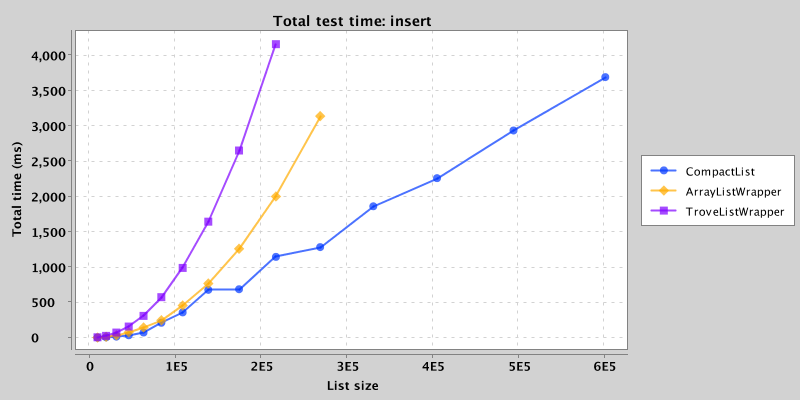
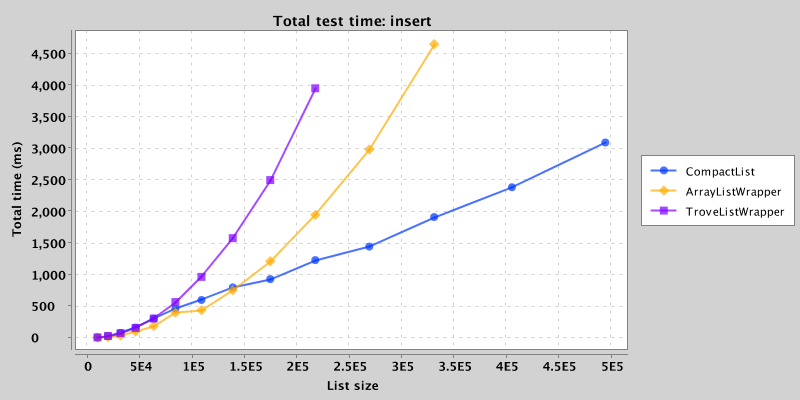
Add amortised compaction back in

diff --git a/src/main/java/net/kothar/compactlist/internal/Node.java b/src/main/java/net/kothar/compactlist/internal/Node.java
@@ -29,19 +29,73 @@ public class Node implements Iterable<Long>, LongList, Serializable {
 	private static final int	TARGET_LEAF_SIZE	= (1 << 16) - 1;
 	private static final int	MAX_LEAF_SIZE		= 1 << 20;
 
-	protected int		size;
-	protected Store		elements;
-	protected Node		left, right;
-	protected int		height;
-	protected boolean	dirty	= true;
+	protected int	size;
+	protected Store	elements;
+	protected Node	left, right;
+	protected int	height;
+
+	boolean		dirty;
+	DirtyList	dirtyList;
+	Node		prevDirty;
+	Node		nextDirty;
 
 	public Node() {
-		this(new ShortArrayStore(0));
+		this(new DirtyList());
 	}
 
-	public Node(Store elements) {
+	protected Node(DirtyList dirtyList) {
+		this(dirtyList, new LongArrayStore());
+	}
+
+	protected Node(DirtyList dirtyList, Store elements) {
+		this(dirtyList, elements, true);
+	}
+
+	public Node(DirtyList dirtyList, Store elements, boolean dirty) {
+		this.dirtyList = dirtyList;
 		this.elements = elements;
 		this.size = elements.size();
+		if (dirty) {
+			markDirty();
+		}
+	}
+
+	private void markDirty() {
+		// Remove if already in list
+		removeDirty();
+
+		// Add to tail of list
+		prevDirty = dirtyList.tail;
+		dirtyList.tail = this;
+		if (dirtyList.head == null) {
+			dirtyList.head = this;
+		}
+		dirty = true;
+	}
+
+	private void removeDirty() {
+		if (!dirty) {
+			return;
+		}
+		if (prevDirty != null) {
+			prevDirty.nextDirty = nextDirty;
+			prevDirty = null;
+		} else {
+			dirtyList.head = nextDirty;
+		}
+		if (nextDirty != null) {
+			nextDirty.prevDirty = prevDirty;
+			nextDirty = null;
+		} else {
+			dirtyList.tail = prevDirty;
+		}
+		dirty = false;
+	}
+
+	public void maintain() {
+		if (dirtyList.head != null) {
+			dirtyList.head.compact();
+		}
 	}
 
 	private boolean isLeaf() {
@@ -78,8 +132,8 @@ public class Node implements Iterable<Long>, LongList, Serializable {
 		// Replace with non-compact representation if out of range
 		// TODO evaluate storage range
 		if (isLeaf() && !elements.inRange(element)) {
-			elements = new LongArrayStore(elements, 0, size);
-			dirty = true;
+			elements = new LongArrayStore(elements);
+			markDirty();
 		}
 
 		// Leaf
@@ -124,7 +178,7 @@ public class Node implements Iterable<Long>, LongList, Serializable {
 				newElements.set(index, element);
 				newElements.copy(elements, index + 1, index, size - index);
 				elements = newElements;
-				dirty = true;
+				markDirty();
 			} else {
 				elements.addLong(index, element);
 			}
@@ -171,7 +225,6 @@ public class Node implements Iterable<Long>, LongList, Serializable {
 			release();
 			elements = new ConstantStore(0, 0);
 			height = 0;
-			dirty = true;
 		} else {
 			balance();
 		}
@@ -186,6 +239,7 @@ public class Node implements Iterable<Long>, LongList, Serializable {
 			right = null;
 		} else {
 			elements.release();
+			removeDirty();
 		}
 	}
 
@@ -196,19 +250,20 @@ public class Node implements Iterable<Long>, LongList, Serializable {
 
 		if (isLeaf()) {
 			if (pivot == size) {
-				left = new Node(elements);
-				right = new Node(new ShortArrayStore(elements.getLong(pivot - 1)));
+				left = new Node(dirtyList, elements, dirty);
+				right = new Node(dirtyList, new LongArrayStore());
 			} else if (pivot == 0) {
-				left = new Node(new ShortArrayStore(elements.getLong(0)));
-				right = new Node(elements);
+				left = new Node(dirtyList, new LongArrayStore());
+				right = new Node(dirtyList, elements, dirty);
 			} else {
 				Store[] splitElements = elements.split(pivot);
-				left = new Node(splitElements[0]);
-				right = new Node(splitElements[1]);
+				left = new Node(dirtyList, splitElements[0], dirty);
+				right = new Node(dirtyList, splitElements[1], dirty);
 			}
 
 			elements = null;
 			height = 1;
+			removeDirty();
 
 			assert left.size == pivot;
 			assert right.size == size - pivot;
@@ -222,7 +277,6 @@ public class Node implements Iterable<Long>, LongList, Serializable {
 	}
 
 	protected void merge() {
-
 		if (trace)
 			log.trace("merge: {}", this);
 
@@ -236,7 +290,7 @@ public class Node implements Iterable<Long>, LongList, Serializable {
 		left = null;
 		right = null;
 		height = 0;
-		dirty = true;
+		markDirty();
 	}
 
 	protected void mergeElements(LongArrayStore target, int offset) {
@@ -245,6 +299,7 @@ public class Node implements Iterable<Long>, LongList, Serializable {
 				target.copy(elements, offset);
 			}
 			elements.release();
+			removeDirty();
 		} else {
 			left.mergeElements(target, offset);
 			right.mergeElements(target, offset + left.size);
@@ -311,10 +366,6 @@ public class Node implements Iterable<Long>, LongList, Serializable {
 			}
 		}
 
-		if (!dirty) {
-			return;
-		}
-
 		try {
 			if (size == 0) {
 				// Edge case where all elements have been removed from a leaf
@@ -347,7 +398,7 @@ public class Node implements Iterable<Long>, LongList, Serializable {
 				}
 			}
 		} finally {
-			dirty = false;
+			removeDirty();
 		}
 	}
 
@@ -447,7 +498,7 @@ public class Node implements Iterable<Long>, LongList, Serializable {
 		}
 	}
 
-	public Store getStorageStrategy() {
+	public Store getStorage() {
 		return elements;
 	}
 

diff --git a/src/test/java/net/kothar/compactlist/CompactListBenchmark.java b/src/test/java/net/kothar/compactlist/CompactListBenchmark.java
@@ -56,6 +56,7 @@ public class CompactListBenchmark {
 		tests.put("insert", insertSequential);
 		tests.put("set", setSeq);
 		tests.put("setRandom", setRand);
+		tests.put("get", getSeq);
 		tests.put("remove", removeRandom);
 
 		for (Entry<String, Test> testEntry : tests.entrySet()) {
@@ -396,12 +397,11 @@ public class CompactListBenchmark {
 		private Random						r;
 		private LongList					list;
 		private Class<? extends LongList>	impl;
-		private int[]						positions;
 
 		@Override
 		public void run() {
 			for (int i = 0; i < size; i++) {
-				list.setLong(positions[i], i);
+				list.setLong(i, i);
 			}
 		}
 
@@ -417,12 +417,7 @@ public class CompactListBenchmark {
 				r = new Random(size);
 				list = impl.newInstance();
 				for (long i = 0; i < size; i++) {
-					list.addLong(i);
-				}
-				this.positions = new int[size];
-
-				for (int i = 0; i < size; i++) {
-					positions[i] = r.nextInt(size);
+					list.addLong(r.nextInt());
 				}
 			} catch (Exception e) {
 				throw new RuntimeException(e);
@@ -503,6 +498,54 @@ public class CompactListBenchmark {
 		}
 	};
 
+	private static Test getSeq = new Test() {
+		private int							size;
+		private LongList					list;
+		private Class<? extends LongList>	impl;
+		public long							x;
+
+		@Override
+		public void run() {
+			for (int i = 0; i < size; i++) {
+				x = list.getLong(i);
+			}
+		}
+
+		@Override
+		public void init(Class<? extends LongList> impl, int size) {
+			this.impl = impl;
+			this.size = size;
+		}
+
+		@Override
+		public void reset() {
+			try {
+				list = impl.newInstance();
+				for (long i = 0; i < size; i++) {
+					list.addLong(i);
+				}
+			} catch (Exception e) {
+				throw new RuntimeException(e);
+			}
+		}
+
+		@Override
+		public void clear() {
+			list = null;
+		}
+
+		@Override
+		public long memoryUsage() {
+			return sizeof(list);
+		}
+
+		@Override
+		public long compactMemoryUsage() {
+			((CompactList) list).compact();
+			return memoryUsage();
+		}
+	};
+
 	private static void warmup(Class<? extends LongList> impl, Test test, int maxListSize) {
 		System.out.println("Warming up " + impl.getSimpleName());
 		int size = 1 << maxListSize / 2;
@@ -558,7 +601,7 @@ public class CompactListBenchmark {
 					// This approximates the true size based to the number of leaves, but doesn't
 					// account for other nodes
 					size.value += 24;
-					Store storageStrategy = leaf.getStorageStrategy();
+					Store storageStrategy = leaf.getStorage();
 					if (storageStrategy != null) {
 						size.value += (long) leaf.size() * storageStrategy.getWidth() / 8;
 					}

diff --git a/src/main/java/net/kothar/compactlist/CompactList.java b/src/main/java/net/kothar/compactlist/CompactList.java
@@ -10,10 +10,19 @@ public class CompactList extends AbstractList<Long> implements LongList, Seriali
 
 	private static final long serialVersionUID = -3558458042495888205L;
 
-	Node root;
+	private static final long MAINTENANCE_CYCLE = 1 << 18;
+
+	long	operation	= 0;
+	Node	root;
 
 	public CompactList() {
 		root = new Node();
+	}
+
+	private void maintain() {
+		if (++operation % MAINTENANCE_CYCLE == 0) {
+			root.maintain();
+		}
 	}
 
 	@Override
@@ -27,6 +36,7 @@ public class CompactList extends AbstractList<Long> implements LongList, Seriali
 			throw new ArrayIndexOutOfBoundsException(index);
 		}
 		root.addLong(index, element);
+		maintain();
 	}
 
 	@Override
@@ -39,7 +49,9 @@ public class CompactList extends AbstractList<Long> implements LongList, Seriali
 		if (index >= size() || index < 0) {
 			throw new ArrayIndexOutOfBoundsException(index);
 		}
-		return root.removeLong(index);
+		long result = root.removeLong(index);
+		maintain();
+		return result;
 	}
 
 	@Override
@@ -52,7 +64,9 @@ public class CompactList extends AbstractList<Long> implements LongList, Seriali
 		if (index >= size() || index < 0) {
 			throw new ArrayIndexOutOfBoundsException(index);
 		}
-		return root.getLong(index);
+		long result = root.getLong(index);
+		maintain();
+		return result;
 	}
 
 	@Override
@@ -65,7 +79,9 @@ public class CompactList extends AbstractList<Long> implements LongList, Seriali
 		if (index >= size() || index < 0) {
 			throw new ArrayIndexOutOfBoundsException(index);
 		}
-		return root.setLong(index, element);
+		long result = root.setLong(index, element);
+		maintain();
+		return result;
 	}
 
 	@Override

diff --git a/src/main/java/net/kothar/compactlist/internal/DirtyList.java b/src/main/java/net/kothar/compactlist/internal/DirtyList.java
@@ -1,0 +1,8 @@
+package net.kothar.compactlist.internal;
+
+public class DirtyList {
+
+	public Node	tail;
+	public Node	head;
+
+}
